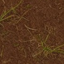
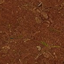
new grass

diff --git a/src/map/Tile.cs b/src/map/Tile.cs
@@ -21,7 +21,7 @@ public class Tile
     {
         if (tileType == Type.Dirt)
         {
-            texture = new Random().Next(5) == 1 ? ResourceLoader.fetchTexture(ResourceLoader.TextureType.DirtOne) : ResourceLoader.fetchTexture(ResourceLoader.TextureType.DirtTwo);
+            texture = new Random().Next(5) == 1 ? ResourceLoader.fetchTexture(ResourceLoader.TextureType.DirtTwo) : ResourceLoader.fetchTexture(ResourceLoader.TextureType.DirtOne);
         }
         this.sprite = new Sprite(texture);
     }
